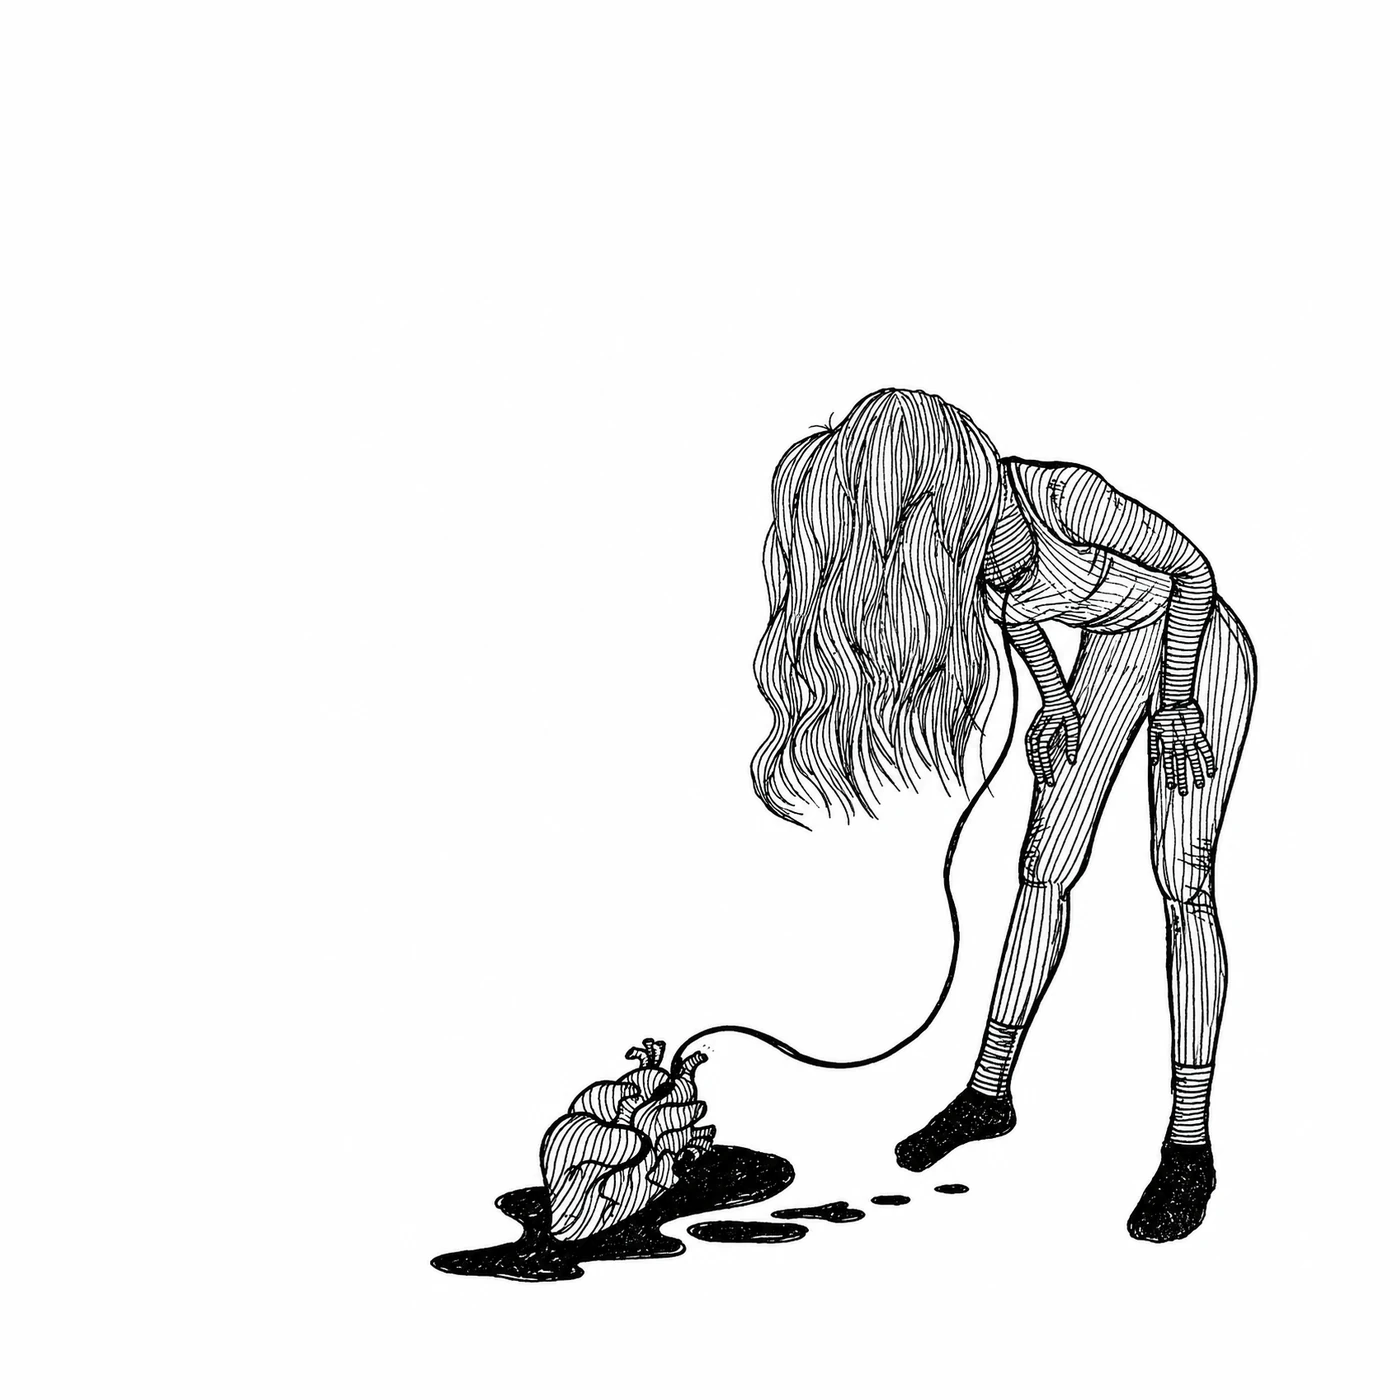
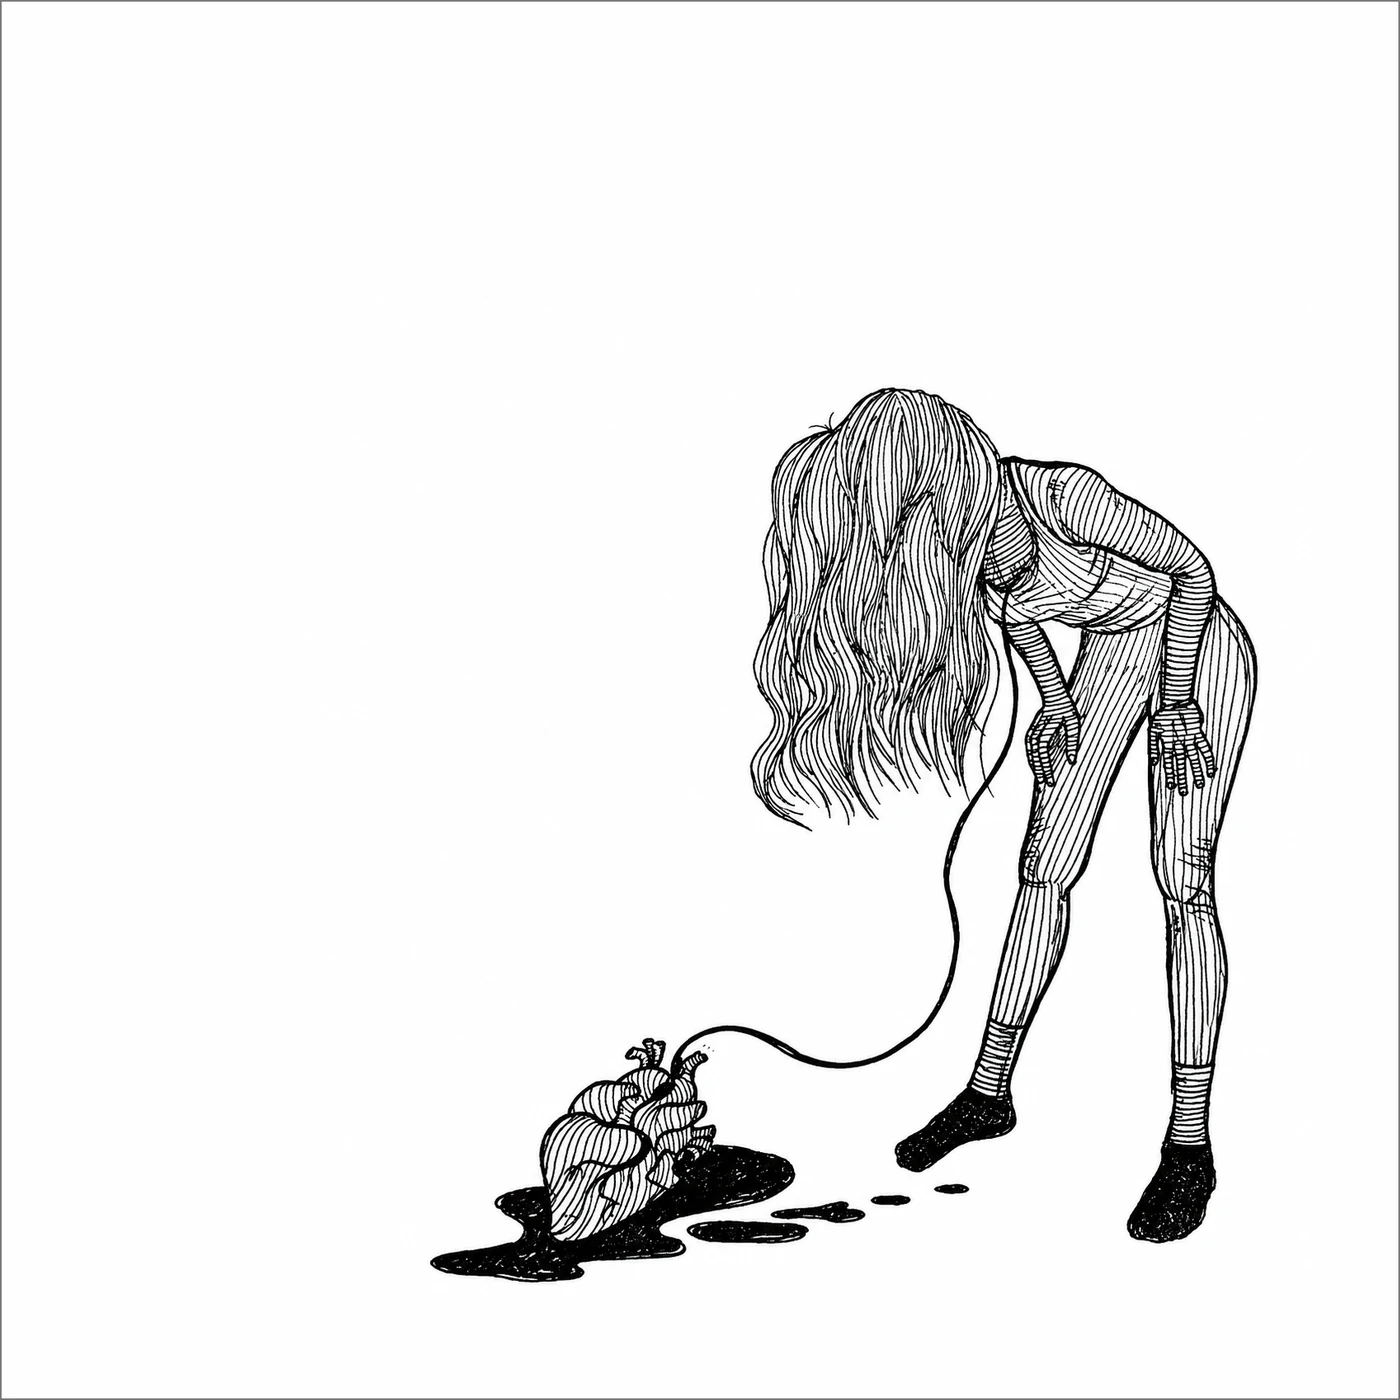
New wall order (row-wise masonry), zoom tag effect, outline on white scans
Claude-Session: https://claude.ai/code/session_01KTDF7EFRKPh24F87yrqThd

Changed region(s): [[0.9829, 0.9829, 1.0, 1.0], [0.9829, 0.0, 1.0, 0.0307], [0.0, 0.9829, 0.0307, 1.0]]

diff --git a/public/js/works.js b/public/js/works.js
@@ -2,6 +2,46 @@
 window.TAGS = [{"id": "tim-burton", "label": "Tim Burton"}, {"id": "tarot", "label": "Tarot Cards"}, {"id": "music-cover", "label": "Music Cover"}, {"id": "symbolism", "label": "Symbolism"}];
 window.WORKS = [
  {
+  "id": "cosmic-heart",
+  "title": "Cosmic Heart",
+  "medium": "Hand-drawn line and stipple, white on black",
+  "tags": [
+   "symbolism"
+  ],
+  "w": 1204,
+  "h": 1400
+ },
+ {
+  "id": "the-used",
+  "title": "Heartwork by The Used",
+  "medium": "Hand-drawn line, white on black",
+  "tags": [
+   "music-cover"
+  ],
+  "w": 1127,
+  "h": 1400
+ },
+ {
+  "id": "floating",
+  "title": "Floating",
+  "medium": "Hand-drawn line and stipple, white on black",
+  "tags": [
+   "symbolism"
+  ],
+  "w": 1119,
+  "h": 1400
+ },
+ {
+  "id": "companion",
+  "title": "Dead with a Cat",
+  "medium": "Ink on paper",
+  "tags": [
+   "tim-burton"
+  ],
+  "w": 933,
+  "h": 1400
+ },
+ {
   "id": "heart",
   "title": "Corazón",
   "medium": "Hand-drawn stipple, white on black",
@@ -42,16 +82,6 @@ window.WORKS = [
    "symbolism"
   ],
   "w": 1022,
-  "h": 1400
- },
- {
-  "id": "companion",
-  "title": "Dead with a Cat",
-  "medium": "Ink on paper",
-  "tags": [
-   "tim-burton"
-  ],
-  "w": 933,
   "h": 1400
  },
  {
@@ -116,26 +146,6 @@ window.WORKS = [
   "h": 1400
  },
  {
-  "id": "cosmic-heart",
-  "title": "Cosmic Heart",
-  "medium": "Hand-drawn line and stipple, white on black",
-  "tags": [
-   "symbolism"
-  ],
-  "w": 1204,
-  "h": 1400
- },
- {
-  "id": "the-used",
-  "title": "Heartwork by The Used",
-  "medium": "Hand-drawn line, white on black",
-  "tags": [
-   "music-cover"
-  ],
-  "w": 1127,
-  "h": 1400
- },
- {
   "id": "pin-throne",
   "title": "Pin Cushion Queen",
   "medium": "Hand-drawn line and stipple, fluorescent colours on black",
@@ -143,16 +153,6 @@ window.WORKS = [
    "tim-burton"
   ],
   "w": 1181,
-  "h": 1400
- },
- {
-  "id": "floating",
-  "title": "Floating",
-  "medium": "Hand-drawn line and stipple, white on black",
-  "tags": [
-   "symbolism"
-  ],
-  "w": 1119,
   "h": 1400
  },
  {

diff --git a/public/css/site.css b/public/css/site.css
@@ -65,15 +65,18 @@ header{position:sticky;top:0;z-index:5;background:var(--paper);display:flex;alig
 .tag{display:inline-flex;align-items:center;gap:8px;height:42px;padding:0 16px 0 12px;border:var(--stroke) solid var(--ink);border-radius:8px 999px 999px 8px;background:var(--paper);cursor:pointer;font-size:16px;font-weight:500;line-height:1;transition:background-color .2s ease,color .2s ease,transform .2s cubic-bezier(.34,1.56,.64,1)}
 .tag .hole{width:9px;height:9px;border-radius:50%;border:var(--stroke) solid var(--ink);flex:none;transition:border-color .2s ease,background-color .2s ease}
 .tag small{font-size:13px;font-weight:500;color:var(--graphite);font-variant-numeric:tabular-nums;transition:color .2s ease}
-.tag:hover{transform:rotate(-2deg)}
+.tag:hover{transform:scale(1.04)}
+.tag:active{transform:scale(.94)}
+.tag[aria-pressed="true"]{animation:tagpop .38s cubic-bezier(.34,1.56,.64,1)}
+@keyframes tagpop{0%{transform:scale(.92)}60%{transform:scale(1.06)}100%{transform:scale(1)}}
 .tag[aria-pressed="true"]{background:var(--ink);color:var(--paper)}
 .tag[aria-pressed="true"] .hole{background:var(--paper);border-color:var(--paper)}
 .tag[aria-pressed="true"] small{color:var(--paper);opacity:.7}
 
 /* wall */
-.wall{columns:3 300px;column-gap:clamp(18px,3vw,40px)}
-.piece[hidden]{display:none}
-.piece{break-inside:avoid;margin:0 0 clamp(32px,4vw,52px);cursor:zoom-in;display:block;width:100%;text-align:left;background:none;border:0;padding:0}
+.wall{display:flex;align-items:flex-start;column-gap:clamp(18px,3vw,40px)}
+.wall .col{flex:1 1 0;min-width:0}
+.piece{margin:0 0 clamp(32px,4vw,52px);cursor:zoom-in;display:block;width:100%;text-align:left;background:none;border:0;padding:0}
 .piece img{display:block;width:100%;height:auto;background:var(--wash);border-radius:4px;transition:transform .35s ease}
 .piece:hover img{transform:scale(.985)}
 .cap{display:block;margin-top:12px}

diff --git a/public/js/site.js b/public/js/site.js
@@ -33,9 +33,27 @@ const pieces = WORKS.map((w,i)=>{
   b.innerHTML = `<img src="img/${w.id}-sm.webp" width="${w.w}" height="${w.h}" loading="${i<6?"eager":"lazy"}" alt="${w.title}, drawing by Senseless Zeal"><span class="cap"><b></b></span>`;
   b.querySelector("b").textContent = w.title;
   b.addEventListener("click",()=>openViewer(i));
-  wall.appendChild(b);
   return b;
 });
+
+// Masonry that reads left to right: each work goes into the currently shortest column,
+// so the order in works.json is the order you see across the top rows.
+let lastCols = 0;
+function layout(force){
+  const gap = parseFloat(getComputedStyle(wall).columnGap) || 24;
+  const n = Math.max(1, Math.min(3, Math.floor((wall.clientWidth + gap) / (300 + gap))));
+  if(n === lastCols && !force) return;
+  lastCols = n;
+  const cols = Array.from({length:n}, ()=>{ const c=document.createElement("div"); c.className="col"; return c; });
+  const heights = new Array(n).fill(0);
+  visible.forEach(i=>{
+    const k = heights.indexOf(Math.min(...heights));
+    cols[k].appendChild(pieces[i]);
+    heights[k] += WORKS[i].h / WORKS[i].w + 0.25;   // image ratio + caption/spacing
+  });
+  wall.replaceChildren(...cols);
+}
+addEventListener("resize", ()=>layout(false));
 
 // tag filter
 const TAGS = window.TAGS || [];
@@ -62,9 +80,9 @@ function setTag(id){
   visible = [];
   WORKS.forEach((w,i)=>{
     const on = !activeTag || w.tags.includes(activeTag);
-    pieces[i].hidden = !on;
     if(on) visible.push(i);
   });
+  layout(true);
   filters.querySelectorAll("button").forEach(b=>b.setAttribute("aria-pressed", String(b.dataset.tag===activeTag)));
   const label = activeTag ? TAGS.find(t=>t.id===activeTag).label : "";
   $("#count").textContent = visible.length + (visible.length===1?" work":" works") + (label ? " in " + label : "");

diff --git a/tools/build.py b/tools/build.py
@@ -15,7 +15,7 @@ import sys
 from pathlib import Path
 
 import numpy as np
-from PIL import Image
+from PIL import Image, ImageDraw
 
 ROOT = Path(__file__).resolve().parent.parent
 SRC = ROOT / "originals"
@@ -63,13 +63,19 @@ def process(work, defaults):
         framed.paste(img, (px["left"], px["top"]))
         img = framed
 
+    outline = work.get("outline")
+    if outline:
+        # thin border like the scanner edge on Companion / Mirror (~2px at 1400px)
+        t = max(1, round(max(img.size) / 700))
+        ImageDraw.Draw(img).rectangle([0, 0, img.width - 1, img.height - 1], outline=outline, width=t)
+
     scale = FULL_LONG_SIDE / max(img.size)
     full = img.resize((round(img.width * scale), round(img.height * scale)), Image.LANCZOS) if scale < 1 else img
     small_scale = SMALL_HEIGHT / full.height
     small = full.resize((round(full.width * small_scale), SMALL_HEIGHT), Image.LANCZOS)
 
     src = find_source(work["id"])
-    if not frame and not trim and scale >= 1 and src.suffix == ".webp":
+    if not frame and not trim and not outline and scale >= 1 and src.suffix == ".webp":
         (OUT_IMG / f"{work['id']}.webp").write_bytes(src.read_bytes())  # untouched: no re-encode
     else:
         full.save(OUT_IMG / f"{work['id']}.webp", "WEBP", quality=QUALITY, method=6)
